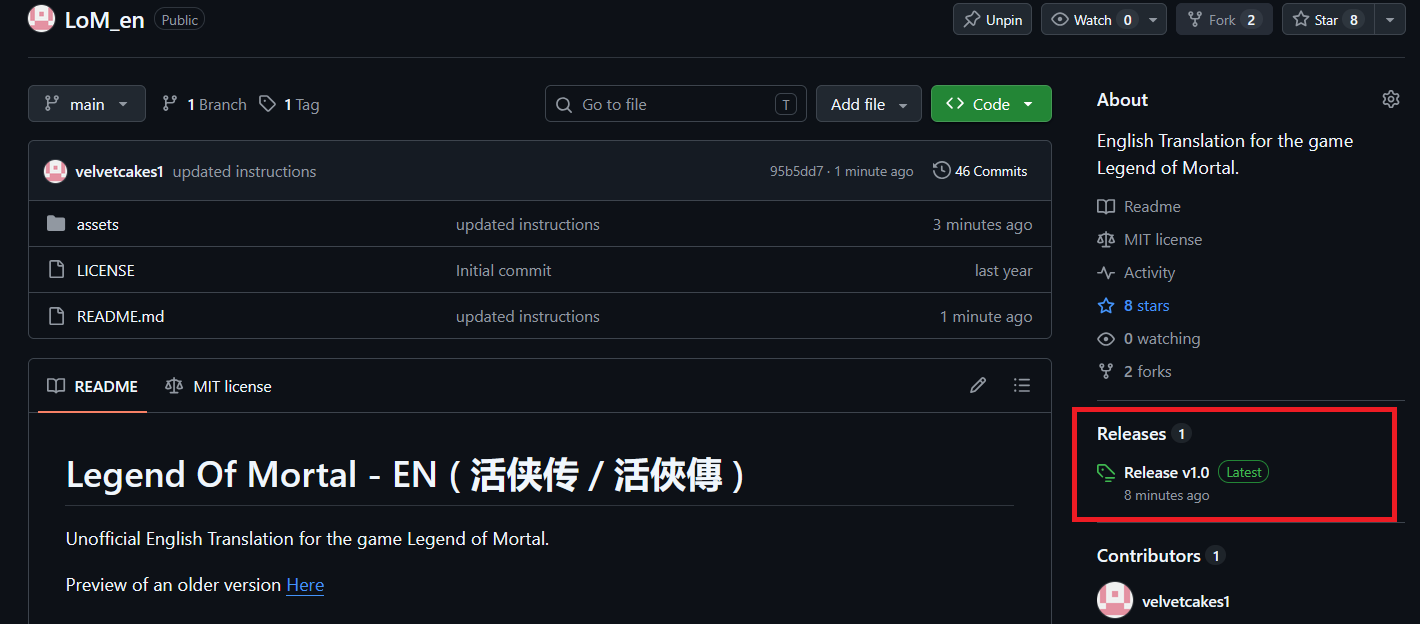
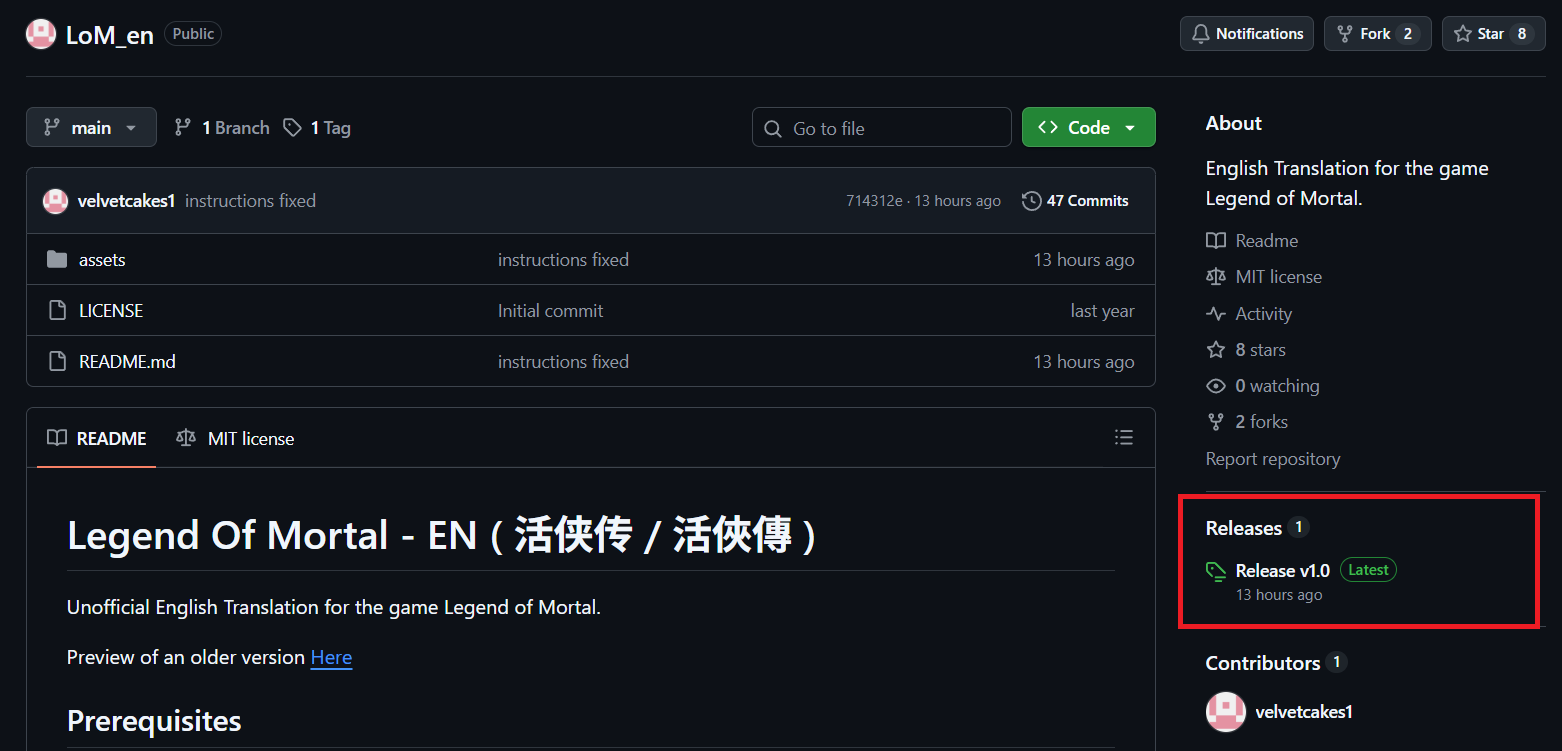
Typo

diff --git a/README.md b/README.md
@@ -17,7 +17,7 @@ These are included in this repository and you do not need to download them separ
 1. Download the Translation for your game version from `Releases`.
 ![Releases](assets/Screenshot1.png)
 
-2. Copy everything inside the `Mod x.x.xxxx.x` folder for your game version and paste it to the Legend of Mortal's game directory. The game directory location may vary. It's usually in `C:\Program Files (x86)\Steam\steamapps\common\` but if you are unsure right click the game in your steam library and select `properties`. Under `Installed Files` click on `Browse` to opne the game directory. The game directory should now look similar to the one in the image shared below.
+2. Copy everything inside the `Mod x.x.xxxx.x` folder for your game version and paste it to the Legend of Mortal's game directory. The game directory location may vary. It's usually in `C:\Program Files (x86)\Steam\steamapps\common\` but if you are unsure right click the game in your steam library and select `properties`. Under `Installed Files` click on `Browse` to open the game directory. The game directory should now look similar to the one in the image shared below.
 
 ![Code](assets/LoM_Directory.png)
 
